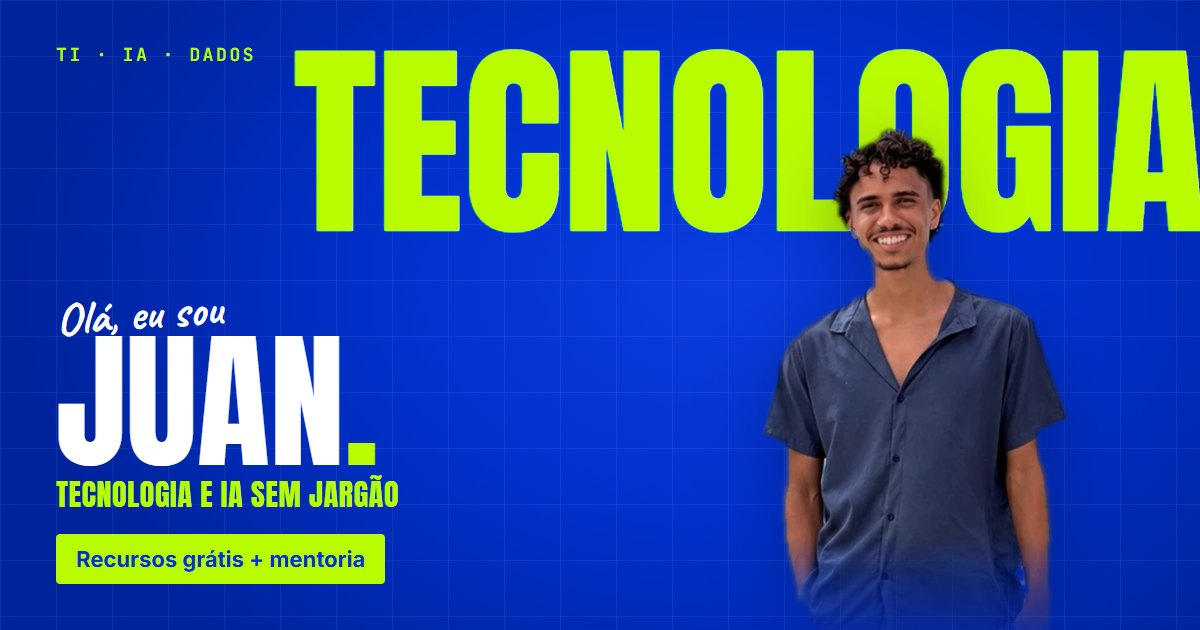
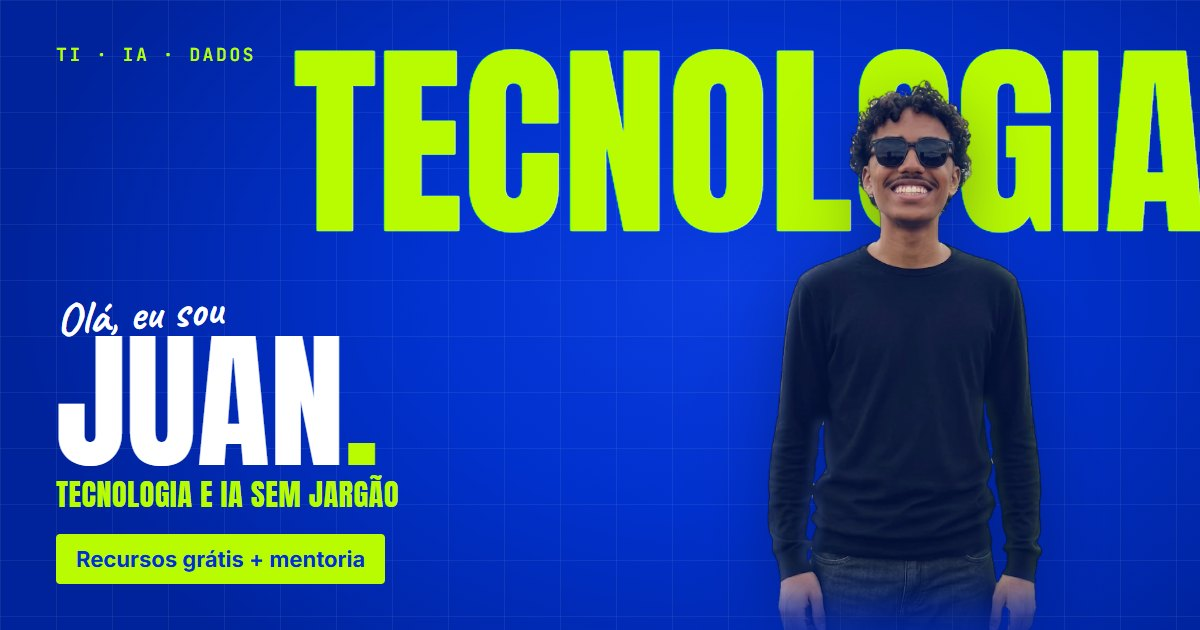
feat(visual): foto de blusa preta no topo, integrada à luz do cenário
Sombras puxadas para o azul da marca, luz de contorno suave e
enquadramento mais aberto (cabeça menor no quadro). Imagem de
compartilhamento atualizada.

Changed region(s): [[0.6167, 0.1206, 0.8942, 1.0]]

diff --git a/estilo.css b/estilo.css
@@ -54,7 +54,7 @@ h2{font:400 clamp(42px,6.4vw,84px)/.94 var(--display);text-transform:uppercase;l
   font:400 var(--gs)/.8 var(--display);color:var(--lime);text-transform:uppercase;letter-spacing:-.005em}
 .visual{grid-area:visual;position:relative;z-index:1;align-self:stretch;display:flex;align-items:flex-end;justify-content:center;margin-top:calc(var(--gs) * -0.5);min-height:0}
 .figure{position:relative;height:calc(100% + 28px);width:100%;display:flex;align-items:flex-start;justify-content:center;margin-bottom:-28px}
-.me{position:relative;z-index:1;display:block;height:100%;width:auto;max-width:100%;max-height:min(84vh,720px);object-fit:contain;object-position:50% 100%;
+.me{position:relative;z-index:1;display:block;height:100%;width:auto;max-width:100%;max-height:min(80vh,700px);object-fit:contain;object-position:50% 100%;
   filter:drop-shadow(0 20px 34px rgba(0,10,60,.35))}
 
 .left{grid-area:left;position:relative;z-index:2;padding-bottom:6px}

diff --git a/tools/og.css b/tools/og.css
@@ -7,7 +7,7 @@ body{width:1200px;height:630px;overflow:hidden;background:#0131cd}
   background-image:linear-gradient(rgba(255,255,255,.18) 1px,transparent 1px),linear-gradient(90deg,rgba(255,255,255,.18) 1px,transparent 1px);background-size:56px 56px}
 .tag{position:absolute;left:56px;top:46px;font:600 18px/1 "JetBrains Mono",monospace;letter-spacing:.14em;text-transform:uppercase;color:#b9fc01}
 .giant{position:absolute;right:-6px;top:58px;font:400 210px/.8 Anton,sans-serif;color:#b9fc01;text-transform:uppercase;white-space:nowrap}
-.me{position:absolute;right:120px;bottom:-40px;height:560px;filter:drop-shadow(0 20px 34px rgba(0,10,60,.35))}
+.me{position:absolute;right:150px;bottom:-60px;height:620px;filter:drop-shadow(0 20px 34px rgba(0,10,60,.35))}
 .txt{position:absolute;left:56px;bottom:120px}
 .hi{display:inline-block;font:700 46px/1 Caveat,cursive;transform:rotate(-4deg)}
 .name{font:400 150px/.86 Anton,sans-serif;text-transform:uppercase}

diff --git a/index.html b/index.html
@@ -52,7 +52,7 @@
       <p class="giant" aria-hidden="true">Tecnologia</p>
       <div class="visual">
         <div class="figure">
-          <img class="me" src="img/juan-v1-recorte.png" alt="Foto de Juan Marques sorrindo" width="594" height="1009">
+          <img class="me" src="img/juan-preta.png" alt="Foto de Juan Marques sorrindo, de blusa preta" width="433" height="921">
         </div>
         <span class="cur c1" aria-hidden="true"><svg aria-hidden="true" focusable="false" viewBox="0 0 24 24"><path d="M3 2l7 19 2.6-7.4L20 11z"/></svg></span>
         <span class="cur l c2" aria-hidden="true"><svg aria-hidden="true" focusable="false" viewBox="0 0 24 24"><path d="M3 2l7 19 2.6-7.4L20 11z"/></svg><em>Juan</em></span>

diff --git a/tools/og.html b/tools/og.html
@@ -11,7 +11,7 @@
   <div class="og">
     <span class="tag">TI · IA · Dados</span>
     <p class="giant">Tecnologia</p>
-    <img class="me" src="../img/juan-v1-recorte.png" alt="">
+    <img class="me" src="../img/juan-preta.png" alt="">
     <div class="txt">
       <span class="hi">Olá, eu sou</span>
       <p class="name">Juan<b>.</b></p>

diff --git a/docs/licenses.md b/docs/licenses.md
@@ -3,7 +3,7 @@
 | Recurso | Origem | Licença | Situação |
 |---|---|---|---|
 | Anton, Inter, JetBrains Mono, Caveat (`fontes/*.woff2`) | Google Fonts (subconjunto latino) | SIL Open Font License 1.1 | OK. Textos da licença em `fontes/OFL-*.txt`, como a OFL exige ao redistribuir |
-| Foto `img/juan-v1-recorte.png` (topo) e `img/og.jpg` (compartilhamento, gerada de `tools/og.html`) | foto do próprio Juan | direito de imagem do próprio Juan | OK |
+| Fotos `img/juan-preta.png` (topo, gerada pelo Gemini a partir de foto do Juan e recortada) e `img/juan-v1-recorte.png` (anterior) e `img/og.jpg` (compartilhamento, gerada de `tools/og.html`) | foto do próprio Juan | direito de imagem do próprio Juan | OK |
 | Vídeos, capas e legenda em `video/` | motion em código feito para o Juan; trilha sintetizada no próprio código; **sem voz** | do Juan | OK. Logos de terceiros não aparecem no vídeo da mentoria |
 | `img/gemini.svg`, `img/github.svg` | marcas de terceiros | marcas registradas | Hoje **não são usados** no `index.html`. Se forem usados, só para identificar o serviço, sem sugerir parceria |
 | Ícones SVG das redes sociais (inline) | desenhos simplificados das marcas | marcas registradas | Uso para identificar o link, permitido pelas diretrizes de marca usuais |
